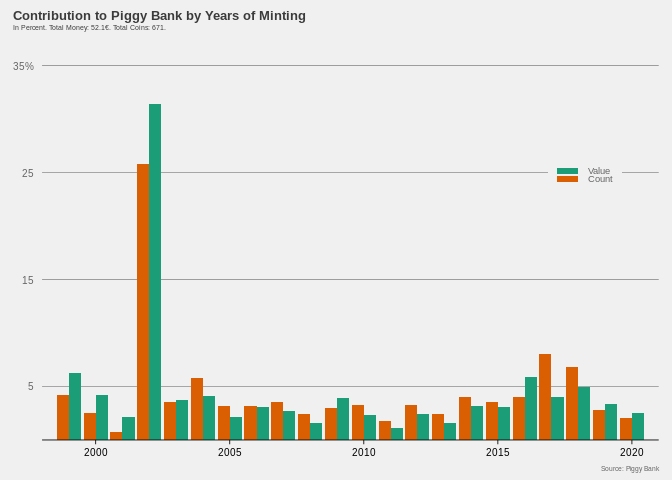
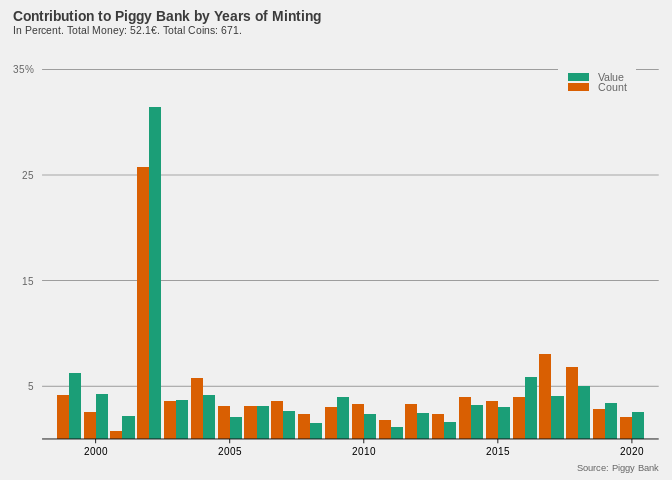
Still to be done: change color theme maybe?

diff --git a/README.md b/README.md
@@ -26,10 +26,10 @@ hp_theme <- function(base_size = 13, base_family = "") {
                                        debug = FALSE),
       plot.margin =       margin(12,10,5,10),
       # Modified inheritance structure of text element
-      plot.title =        element_text(size = rel(0.75), family = '' ,
+      plot.title =        element_text(size = rel(0.8), family = '' ,
                                        face = 'bold', hjust = 0,
                                        vjust = 2.5, colour = '#3B3B3B'),
-      plot.subtitle =     element_text(size = rel(0.4), family = '' ,
+      plot.subtitle =     element_text(size = rel(0.6), family = '' ,
                                        face = 'plain', hjust = 0,
                                        vjust = 2.5, colour = '#3B3B3B', 
                                        margin = margin(0,0,15,0)),
@@ -130,13 +130,13 @@ d %>%
                      panel.grid.major.y = element_blank(), 
                      axis.line.x=element_line( size=.3, color="black"), 
                      legend.position = c(0.88, 0.98), 
-                     legend.text=element_text(size=7),
+                     legend.text=element_text(size=8),
                      legend.title=element_blank(), 
                      legend.key.height= unit(0.4,"line"),
                      legend.key = element_blank(), 
                      axis.ticks.y = element_blank(), 
                      axis.ticks.x =element_line( size=.3, color="black"), 
-                     plot.caption=element_text(size=5), 
+                     plot.caption=element_text(size=7), 
                      axis.text.x=element_text(color="black"))
 ```
 
@@ -174,14 +174,14 @@ ggplot(aes(x=Year,y=value, fill=variable)) +
                      panel.grid.major.y = element_line(size=.2, color="#656565"), 
                      axis.line.x=element_line( size=.3, color="black"), 
                      axis.line.y=element_blank(),
-                     legend.position = c(0.88, 0.7), 
-                     legend.text=element_text(size=7),
+                     legend.position = c(0.9, 0.95), 
+                     legend.text=element_text(size=8),
                      legend.title=element_blank(), 
                      legend.key.height= unit(0.4,"line"),
                      legend.key = element_blank(), 
                      axis.ticks.y = element_blank(), 
                      axis.ticks.x =element_line( size=.3, color="black"), 
-                     plot.caption=element_text(size=5), 
+                     plot.caption=element_text(size=7),
                      axis.text.x=element_text(color="black"))
 ```
 
@@ -234,14 +234,14 @@ country %>%
                      panel.grid.major.y = element_blank(), 
                      axis.line.x=element_line( size=.3, color="black"), 
                      axis.line.y=element_line( size=.3, color="#656565"), 
-                     legend.position = c(0.88, 0.7), 
-                     legend.text=element_text(size=7),
+                     legend.position = c(0.87, 0.3), 
+                     legend.text=element_text(size=6),
                      legend.title=element_blank(), 
                      legend.key.height= unit(0.4,"line"),
                      legend.key = element_blank(), 
                      axis.ticks.y = element_blank(), 
                      axis.ticks.x =element_line( size=.3, color="black"), 
-                     plot.caption=element_text(size=5), 
+                     plot.caption=element_text(size=7),
                      axis.text.x=element_text(color="black"))
 ```
 
@@ -261,7 +261,8 @@ country %>%
   pivot_longer(cols=c('Value_Percent', 'Count_Percent'), names_to='variable', 
                values_to="value") %>% 
   arrange(desc(value)) %>% 
-  ggplot(aes(x=as.factor(Country),y=value, fill=variable)) +
+  mutate(Country= as.factor(Country)) %>% 
+  ggplot(aes(x=reorder(Country, value),y=value, fill=variable)) +
   geom_bar(stat='identity', position='dodge') +
   coord_flip() +
   scale_y_continuous(limits = c(0, 25.1), 
@@ -272,7 +273,7 @@ country %>%
   scale_x_discrete(labels=c("1"="Germany","0"="All Other")) +
   scale_fill_manual(breaks=c("Value_Percent","Count_Percent"), 
                     values=c("#1b9e77", "#d95f02"),labels = c("Value", "Count"))  +
-  labs(title = "Contribution to Piggy Bank by Country Other Than Germany",
+  labs(title = "Contribution to Piggy Bank by Country \n Other Than Germany",
        subtitle = "In Percent of total. Total Money: 34.86€. Total Coins: 296.",
        caption = "Source: Piggy Bank") +
   hp_theme() + theme(axis.text= element_text(size=7.5), axis.title.x = element_blank(), 
@@ -282,14 +283,15 @@ country %>%
                      panel.grid.major.y = element_blank(), 
                      axis.line.x=element_line( size=.3, color="black"), 
                      axis.line.y=element_line( size=.3, color="#656565"), 
-                     legend.position = c(0.88, 0.7), 
-                     legend.text=element_text(size=7),
+                     legend.position = c(0.89, 0.7), 
+                     legend.text=element_text(size=6),
+                     legend.margin=margin(t = 0, unit='cm'),
                      legend.title=element_blank(), 
                      legend.key.height= unit(0.4,"line"),
                      legend.key = element_blank(), 
                      axis.ticks.y = element_blank(), 
                      axis.ticks.x =element_line( size=.3, color="black"), 
-                     plot.caption=element_text(size=5), 
+                     plot.caption=element_text(size=7),
                      axis.text.x=element_text(color="black"))
 ```
 
